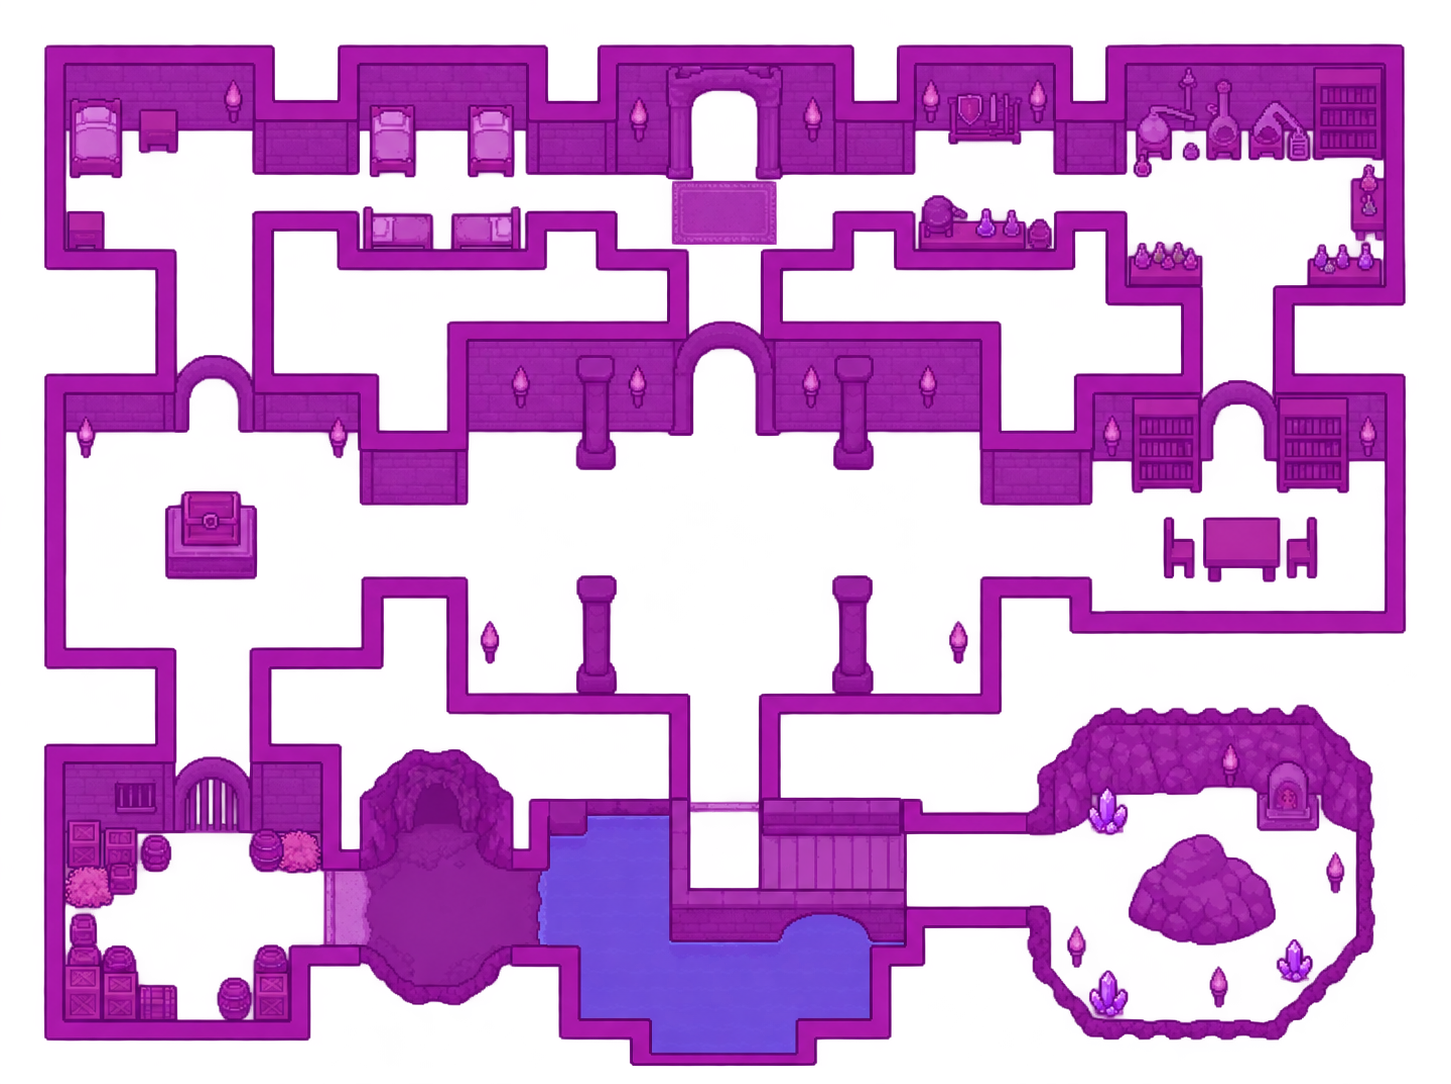
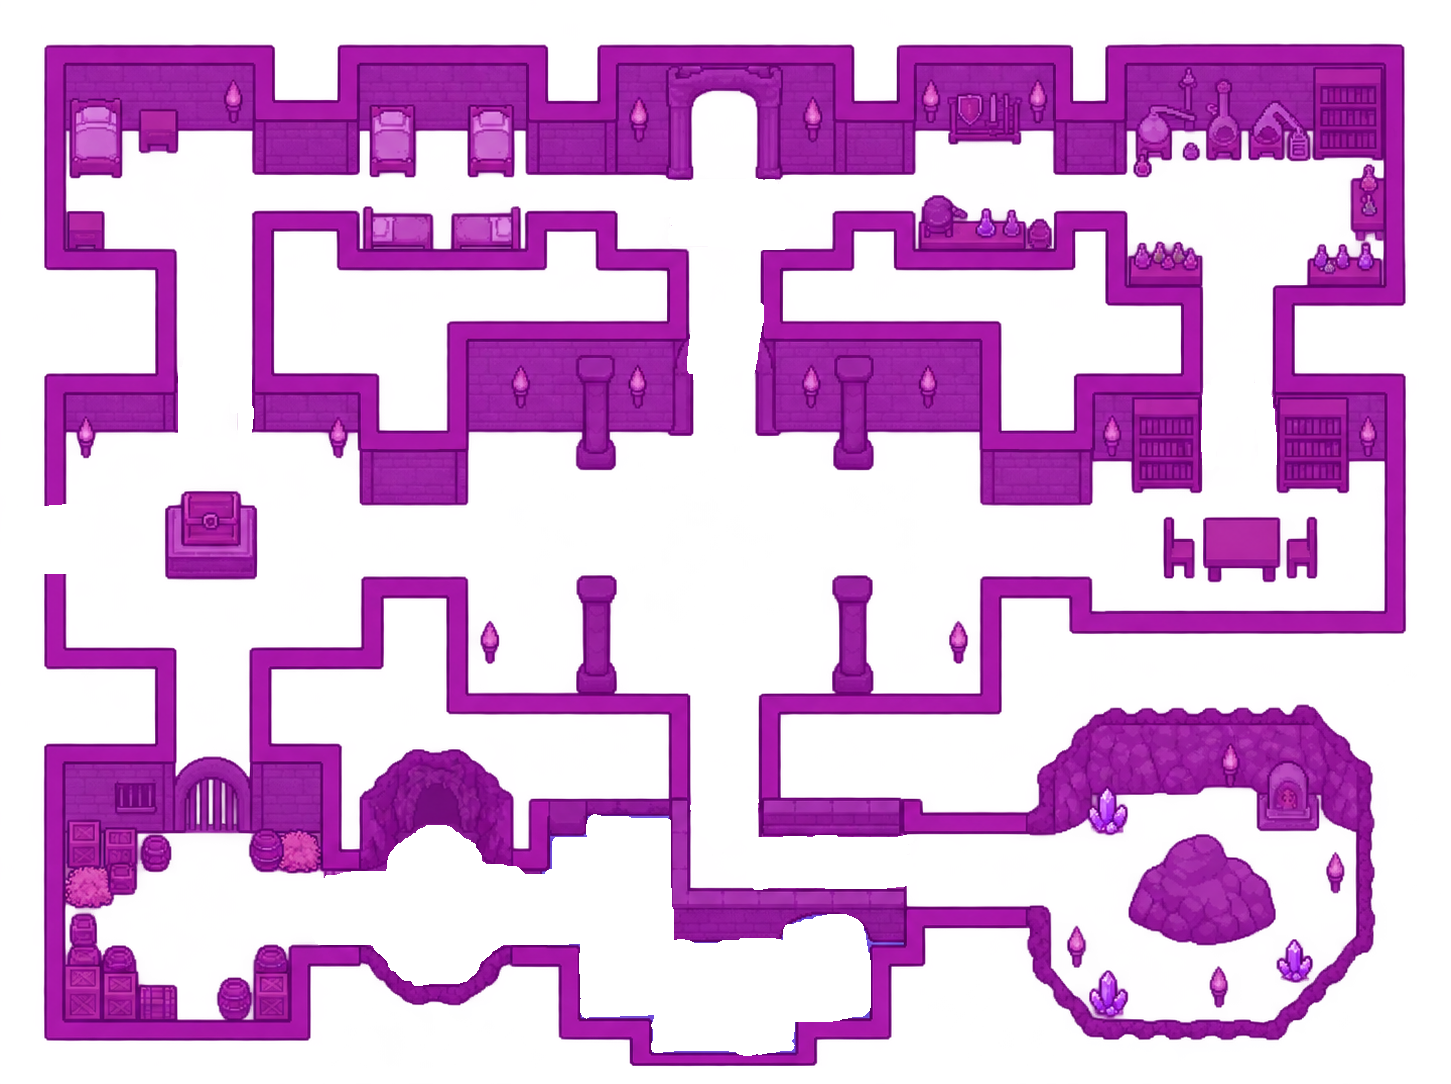
Colisiones hechas y funcionales, F1 para ver las colisiones

diff --git a/src/Objetos/Personaje.cs b/src/Objetos/Personaje.cs
@@ -1,9 +1,4 @@
-using System;
-using System.Collections.Generic;
-using System.Linq;
-using System.Text;
-using System.Threading.Tasks;
-using Microsoft.Xna.Framework;
+using Microsoft.Xna.Framework;
 using Microsoft.Xna.Framework.Graphics;
 using Microsoft.Xna.Framework.Input;
 
@@ -15,15 +10,19 @@ namespace JuegoDecisionQuest.Objetos
         public int ataque { get; set; }
         public int vida { get; set; }
         public int defensa { get; set; }
-        //esto está relacionado con el desplazamiento del personaje, está medida en pixeles por segundo
+
+        // velocidad del desplazamiento, en pixeles por segundo
         public float velocidad_jugador { get; set; } = 300f;
-        //Esta es una variable auxiliar que se encarga de guardar el estado en el que se encuentra el personaje (quieto o moviendose a izquierda, derecha, abajo y arriba)
+
+        // sprite que se está mostrando ahora mismo (quieto, izquierda o derecha)
         public Sprite estado { get; set; }
-        //todos estos sprites son para cada imagen del personaje, una imagen del pj moviendose a la derecha y viceversa.
-        //En este caso el sprite quieto no va a ser unicamente para cuando está quieto el personaje, sino que también para cuando se mueve para arriba y abajo.
         public Sprite spriteparado;
         public Sprite spritederecha;
         public Sprite spriteizquierda;
+
+        // Zona de colisión del personaje: solo sus PIES, no todo el cuerpo.
+        // La usamos también en Game1 para dibujarla al depurar.
+        public Rectangle Hitbox => CrearHitbox(estado.posicion, estado);
 
         public Personaje(int ataque, int vida, int defensa, Sprite quieto, Sprite izquierda, Sprite derecha)
         {
@@ -33,64 +32,80 @@ namespace JuegoDecisionQuest.Objetos
             this.spriteparado = quieto;
             this.spriteizquierda = izquierda;
             this.spritederecha = derecha;
-            //lo que le estoy diciendo acá es que su estado inicial sea que esté quieto.
+            // el estado inicial es que esté quieto
             estado = this.spriteparado;
         }
 
-        //esta parte de acá es la que se encarga de todo el movimiento del personaje. Ponemos el Update acá para no mandar un choclo enorme de código a Game1
-        //de esta manera solo tenés que llamar a la función en Game1 para que funcione
-        public void Update(GameTime gameTime)
+        // Crea el rectángulo de los pies para una posición dada
+        public Rectangle CrearHitbox(Vector2 pos, Sprite sprite)
         {
-            // esto es simplemente para que se lea el teclado
+            int anchoCaja = 28;
+            int altoCaja = 16;
+
+            return new Rectangle(
+                (int)pos.X + (sprite.ancho - anchoCaja) / 2,   // centrada horizontalmente
+                (int)pos.Y + sprite.alto - altoCaja,           // pegada a la parte de abajo
+                anchoCaja,
+                altoCaja);
+        }
+
+        // Update ahora recibe las colisiones para poder comprobarlas
+        public void Update(GameTime gameTime, Colisiones colisiones)
+        {
             KeyboardState teclas = Keyboard.GetState();
-            // el delta es tiempo real en el que se está moviendo el personaje por cada frame
-            //de esta manera conserva la misma velocidad incluso si tenés 300 fps
-            //sin el delta la velocidad en pixeles por segundo del personaje estaría medida únicamente por cada 1 frame (pixeles por fotograma)
-            //eso provoca que el personaje vaya demasiado rápido
             float delta = (float)gameTime.ElapsedGameTime.TotalSeconds;
-            //esto es otra variable auxiliar que guarda la posición del sprite teniendo en cuenta el estado en el que está
-            Vector2 nuevapos = estado.posicion;
+
+            // 1) Leemos las teclas y armamos la dirección (-1, 0 o 1 en cada eje)
+            Vector2 direccion = Vector2.Zero;
             Sprite posicionactual = spriteparado;
-            //esto es una secuencia de if's para cada tecla 
-            //Ejemplo: Si x tecla está presionada, entonces el sprite se mueve a la derecha
-            //estos primeros dos if son para la posición del sprite en las coordenadas X
+
             if (teclas.IsKeyDown(Keys.Left) || teclas.IsKeyDown(Keys.A))
             {
-                //este es un cálculo matemático de MRU (movimiento rectilíneo uniforme) donde la distancia = velocidad x tiempo
-                nuevapos.X -= velocidad_jugador * delta;
+                direccion.X -= 1;
                 posicionactual = spriteizquierda;
             }
             if (teclas.IsKeyDown(Keys.Right) || teclas.IsKeyDown(Keys.D))
             {
-                nuevapos.X += velocidad_jugador * delta;
+                direccion.X += 1;
                 posicionactual = spritederecha;
             }
-
-            //Lo mismo pero para la posición en Y
             if (teclas.IsKeyDown(Keys.Up) || teclas.IsKeyDown(Keys.W))
             {
-                nuevapos.Y -= velocidad_jugador * delta;
-                posicionactual = spriteparado;
+                direccion.Y -= 1;
+                if (direccion.X == 0) posicionactual = spriteparado;
             }
             if (teclas.IsKeyDown(Keys.Down) || teclas.IsKeyDown(Keys.S))
             {
-                nuevapos.Y += velocidad_jugador * delta;
-                posicionactual = spriteparado;
+                direccion.Y += 1;
+                if (direccion.X == 0) posicionactual = spriteparado;
             }
 
-            //Acá estoy tomando la posicion actual del sprite y la estoy guardando dentro del sprite (para que se mueva)
-            posicionactual.posicion = nuevapos;
-            //esto es para que el draw pueda saber que sprite dibujar en pantalla
+            // Cuánto se mueve en este frame (distancia = velocidad x tiempo)
+            Vector2 movimiento = direccion * velocidad_jugador * delta;
+
+            // Movemos y comprobamos colisiones EJE POR EJE.
+            // Si choca en un eje, deshacemos solo ese movimiento y el otro eje sigue funcionando,
+            // así el personaje se desliza por las paredes en vez de quedarse trabado.
+            Vector2 pos = estado.posicion;
+
+            pos.X += movimiento.X;
+            if (colisiones.Choca(CrearHitbox(pos, estado)))
+                pos.X -= movimiento.X;
+
+            pos.Y += movimiento.Y;
+            if (colisiones.Choca(CrearHitbox(pos, estado)))
+                pos.Y -= movimiento.Y;
+
+            // 5) Guardamos la posición final en el sprite que corresponde y lo dejamos como estado
+            posicionactual.posicion = pos;
             estado = posicionactual;
         }
 
         public void Draw(SpriteBatch spriteBatch)
         {
             Rectangle rectanguloDestino = new Rectangle(
-                //esto es simplemente las coordenadas de dónde va a iniciar el personaje
                 (int)estado.posicion.X,
                 (int)estado.posicion.Y,
-                //esto es para el tamaño del personaje
                 estado.ancho,
                 estado.alto
                 );

diff --git a/src/Game1.cs b/src/Game1.cs
@@ -11,16 +11,21 @@ namespace JuegoDecisionQuest
         private GraphicsDeviceManager _graphics;
         private SpriteBatch _spriteBatch;
         private Mapa _mapa;
-        //esta variable es la que va a guardar al jugador
         Personaje jugador;
-        //estas son todas las texturas que necesita el sprite (las imagenes)
         Texture2D TexturaParado;
         Texture2D TexturaDerecha;
         Texture2D TexturaIzquierda;
-        //y estos son simplemente los sprites para cada textura (para que aparezcan en el juego)
         Sprite parado;
         Sprite derecha;
         Sprite izquierda;
+
+        Colisiones colisiones;
+
+        // Para ver las zonas sólidas mientras se prueba (F1 las muestra/oculta)
+        Texture2D texturaColision;
+        Texture2D pixel;                 //para dibujar la hitbox del jugador
+        bool mostrarColisiones = true;
+        KeyboardState tecladoAnterior;   //el campo "teclado": ahora es local en Update
 
         public Game1()
         {
@@ -41,41 +46,47 @@ namespace JuegoDecisionQuest
         protected override void LoadContent()
         {
             _spriteBatch = new SpriteBatch(GraphicsDevice);
-            //esto carga cada imagen para que puedan usarse y crear los sprites
             TexturaParado = Content.Load<Texture2D>("parado");
             TexturaDerecha = Content.Load<Texture2D>("correrDerecha");
             TexturaIzquierda = Content.Load<Texture2D>("correrIzquierda");
-            //una variable auxiliar que guarda la posicion en la que va a iniciar cada sprite
-            //es para simplemente poner posicioninicial en vez de todo el choclo de new Vector2...
-            Vector2 posicioninicial = new Vector2(0, 0);
-            //acá creamos todos los sprites, le damos la misma posicion de arranque y el mismo tamaño para que no haya conflicto
-            parado = new Sprite(TexturaParado, posicioninicial, 200, 100);
-            derecha = new Sprite(TexturaDerecha, posicioninicial, 200, 100);
-            izquierda = new Sprite(TexturaIzquierda, posicioninicial, 200, 100);
-            //acá creamos al jugador y le damos los 3 sprites que necesita para lograr mostrar que se está moviendo (además de orgarle vida, defensa y ataque)
+
+            Vector2 posicioninicial = new Vector2(496, 363);
+            parado = new Sprite(TexturaParado, posicioninicial, 60, 80);
+            derecha = new Sprite(TexturaDerecha, posicioninicial, 60, 80);
+            izquierda = new Sprite(TexturaIzquierda, posicioninicial, 60, 80);
             jugador = new Personaje(15, 100, 10, parado, izquierda, derecha);
             _mapa = new Mapa(Content);
 
-            //Se crean las colisiones
             colisiones = new Colisiones(new Rectangle(0, 0, 1000, 750));
-            // Usa la imagen sobreposicion como máscara de colisión.
-            // Content.Load devuelve la misma textura que ya cargó Mapa, no la duplica en memoria.
-            colisiones.CargarMascara(Content.Load<Texture2D>("sobreposicion"));
+            texturaColision = Content.Load<Texture2D>("sobreposicion");
+            colisiones.CargarMascara(texturaColision);
 
-            _spriteBatch.Draw(Content.Load<Texture2D>("sobreposicion"), new Rectangle(0, 0, 1000, 750), Color.Red * 0.5f);
+            // Un píxel blanco, para dibujar rectángulos de depuración
+            pixel = new Texture2D(GraphicsDevice, 1, 1);
+            pixel.SetData(new[] { Color.White });
         }
 
         protected override void Update(GameTime gameTime)
         {
-            if (Keyboard.GetState().IsKeyDown(Keys.Escape))
+            // Leemos el teclado en CADA frame (antes se leía solo al crear el juego)
+            KeyboardState teclado = Keyboard.GetState();
+
+            if (teclado.IsKeyDown(Keys.Escape))
             {
                 Exit();
             }
-            //esto lo único que hace es llamar al update del jugador para que pueda moverse el personaje
-            jugador.Update(gameTime);
 
-            var raton = Mouse.GetState();
-            Window.Title = $"X: {raton.X}  Y: {raton.Y}";
+            // F1 muestra u oculta las zonas sólidas
+            if (teclado.IsKeyDown(Keys.F1) && tecladoAnterior.IsKeyUp(Keys.F1))
+            {
+                mostrarColisiones = !mostrarColisiones;
+            }
+            tecladoAnterior = teclado;
+
+            jugador.Update(gameTime, colisiones);
+
+            // Diagnóstico: posición del jugador y si su hitbox está tocando un sólido
+            Window.Title = $"X: {(int)jugador.estado.posicion.X}  Y: {(int)jugador.estado.posicion.Y}  Choca: {colisiones.Choca(jugador.Hitbox)}";
 
             base.Update(gameTime);
         }
@@ -86,8 +97,16 @@ namespace JuegoDecisionQuest
 
             _spriteBatch.Begin();
 
-            _mapa.Dibujar(_spriteBatch);   // primero el mapa
-            jugador.Draw(_spriteBatch);    // después el personaje, que queda delante
+            _mapa.Dibujar(_spriteBatch);
+            jugador.Draw(_spriteBatch);
+
+            if (mostrarColisiones)
+            {
+                // La máscara que realmente se cargó, encima del mapa
+                _spriteBatch.Draw(texturaColision, new Rectangle(0, 0, 1000, 750), Color.White * 0.6f);
+                // Los pies del jugador, en azul
+                _spriteBatch.Draw(pixel, jugador.Hitbox, Color.Blue * 0.8f);
+            }
 
             _spriteBatch.End();
 

diff --git a/src/obj/Debug/net9.0/JuegoDecisionQuest.AssemblyInfo.cs b/src/obj/Debug/net9.0/JuegoDecisionQuest.AssemblyInfo.cs
@@ -14,7 +14,7 @@ using System.Reflection;
 [assembly: System.Reflection.AssemblyCompanyAttribute("JuegoDecisionQuest")]
 [assembly: System.Reflection.AssemblyConfigurationAttribute("Debug")]
 [assembly: System.Reflection.AssemblyFileVersionAttribute("1.0.0.0")]
-[assembly: System.Reflection.AssemblyInformationalVersionAttribute("1.0.0+a0421a066e2e920746d217964b22fd1bf6df0129")]
+[assembly: System.Reflection.AssemblyInformationalVersionAttribute("1.0.0+89c957ab2c283df0cab78956c7dee3515c614990")]
 [assembly: System.Reflection.AssemblyProductAttribute("JuegoDecisionQuest")]
 [assembly: System.Reflection.AssemblyTitleAttribute("JuegoDecisionQuest")]
 [assembly: System.Reflection.AssemblyVersionAttribute("1.0.0.0")]
